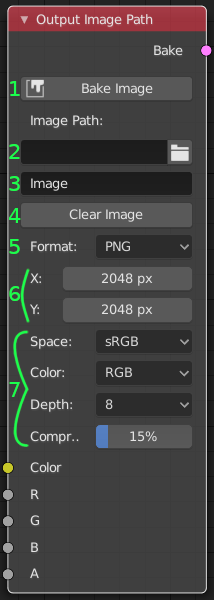
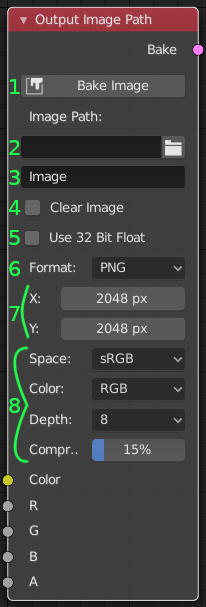
Fixed some urls, updated images for latest version

Changed region(s): [[0.0, 0.0, 0.9903, 0.99]]

diff --git a/index.rst b/index.rst
@@ -52,7 +52,7 @@ The Future:
       something.  
       |br|
     
-Come visit `blenderartists.org/bake-wrangler <http://www.blenderartists.org>`_ to get involved and make suggestions :)
+Come visit `blenderartists.org/t/bake-wrangler-node-based-baking-tool-set/ <https://blenderartists.org/t/bake-wrangler-node-based-baking-tool-set/>`_ to get involved and make suggestions :)
     Bake Wrangler is available from:
     
     =================== ================================================================================

diff --git a/bugs.rst b/bugs.rst
@@ -1,7 +1,7 @@
 Bug Reports
 ===========
 
-Have you found a bug? *Please* report it `here (blenderartists.org/bakewrangler) <http://www.blenderartists.org>`_
+Have you found a bug? *Please* report it `here (blenderartists.org/t/bake-wrangler-node-based-baking-tool-set/) <https://blenderartists.org/t/bake-wrangler-node-based-baking-tool-set/>`_
 following these guidelines:
 
 **Always post the steps to reproduce the bug.**
